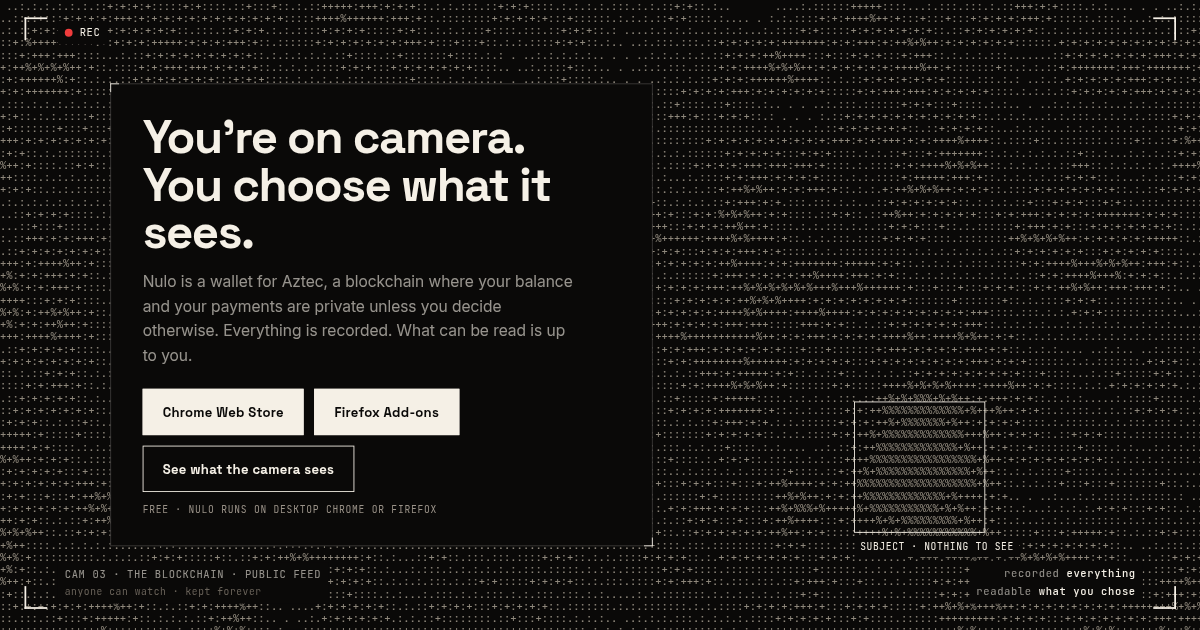
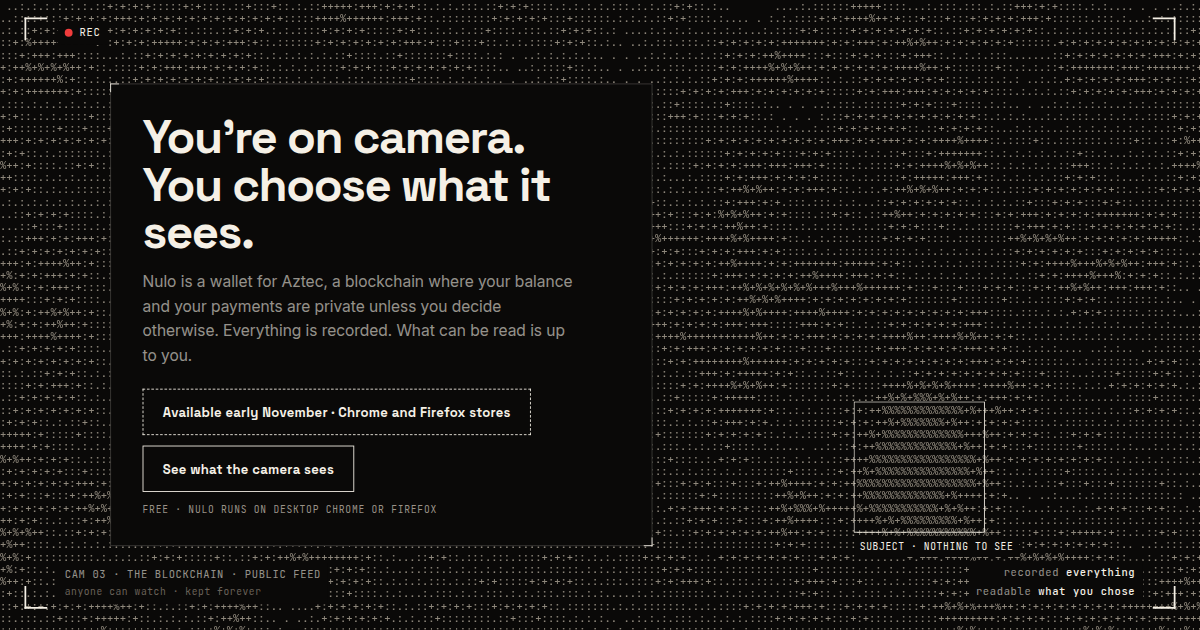
chore(landing): announce the store launch in place of the install buttons (#1160)
The same commit as #1159, which goes into `main` so nulo.sh deploys it
today. This PR keeps `dev` in line, so the next promote neither reverts
it nor conflicts with it. Restoring the buttons at launch is a revert on
both branches.

Owner sign-off and UI impact: see #1159.

🤖 Generated with [Claude Code](https://claude.com/claude-code)

diff --git a/apps/landing/index.html b/apps/landing/index.html
@@ -49,7 +49,7 @@
 				<a class="brand" href="/" aria-label="NULO home"><i aria-hidden="true"></i>NULO</a>
 				<nav aria-label="Main navigation">
 					<a href="#see">How it works</a>
-					<a class="btn" data-install="nav" href="#get">Get Nulo</a>
+					<a class="btn" href="#get">Coming soon</a>
 				</nav>
 			</div>
 		</header>
@@ -75,10 +75,9 @@
 						decide otherwise. Everything is recorded. What can be read is up to you.
 					</p>
 					<div class="cta">
-						<a class="btn" data-install="primary" href="https://chromewebstore.google.com/detail/jlmiaokmjoicmclelpiiocdhncddkdmc">Chrome Web Store</a>
-						<a class="btn" data-install="secondary" href="https://addons.mozilla.org/firefox/addon/3077967/">Firefox Add-ons</a>
+						<span class="soon">Available early November · Chrome and Firefox stores</span>
 						<a class="btn ghost" href="#see">See what the camera sees</a>
-						<small>free<span data-install-detected hidden> · about 30 seconds · also on <a data-install-other href="https://addons.mozilla.org/firefox/addon/3077967/">Firefox</a></span><span data-install-fallback> · Nulo runs on desktop Chrome or Firefox</span></small>
+						<small>free · Nulo runs on desktop Chrome or Firefox</small>
 					</div>
 				</div>
 			</section>
@@ -205,10 +204,9 @@
 					<p class="eb">nothing to see · everything to own</p>
 					<h2 id="final-title">Nothing to see.<br />Everything to own.</h2>
 					<div class="cta">
-						<a class="btn" data-install="primary" href="https://chromewebstore.google.com/detail/jlmiaokmjoicmclelpiiocdhncddkdmc">Chrome Web Store</a>
-						<a class="btn" data-install="secondary" href="https://addons.mozilla.org/firefox/addon/3077967/">Firefox Add-ons</a>
+						<span class="soon">Available early November · Chrome and Firefox stores</span>
 						<a class="btn ghost" href="https://github.com/nulo-sh/nulo">Source on GitHub</a>
-						<small>free<span data-install-detected hidden> · about 30 seconds · also on <a data-install-other href="https://addons.mozilla.org/firefox/addon/3077967/">Firefox</a></span><span data-install-fallback> · Nulo runs on desktop Chrome or Firefox</span></small>
+						<small>Building on Aztec V6? Write to <a href="mailto:hello@nulo.sh">hello@nulo.sh</a></small>
 					</div>
 				</div>
 			</section>
@@ -219,8 +217,6 @@
 				<span>nulo.sh</span>
 				<span>
 					<a href="https://github.com/nulo-sh/nulo">github</a> ·
-					<a href="https://chromewebstore.google.com/detail/jlmiaokmjoicmclelpiiocdhncddkdmc">chrome</a> ·
-					<a href="https://addons.mozilla.org/firefox/addon/3077967/">firefox</a> ·
 					<a href="https://github.com/nulo-sh/nulo/releases">releases</a> ·
 					<a href="/privacy">privacy</a> ·
 					<a href="/terms">terms</a>

diff --git a/apps/landing/src/install.test.ts b/apps/landing/src/install.test.ts
@@ -1,6 +1,6 @@
 import { readFileSync } from "node:fs"
 import { describe, expect, it } from "vitest"
-import { detectInstall, type Install, type NavigatorLike, STORES } from "./install"
+import { detectInstall, type Install, type NavigatorLike } from "./install"
 
 const WIN = "Mozilla/5.0 (Windows NT 10.0; Win64; x64) AppleWebKit/537.36 (KHTML, like Gecko)"
 const CHROME = `${WIN} Chrome/129.0.0.0 Safari/537.36`
@@ -111,9 +111,10 @@ describe("detectInstall", () => {
 })
 
 describe.each(["index.html", "how-aztec-works.html"])("%s", (page) => {
-	it("links the stores only through the URLs the script uses", () => {
+	// Until the store listings open, a page links no store and serves no button for
+	// `mountInstall` to turn into one.
+	it("links no store and serves no install button before the listings open", () => {
 		const html = readFileSync(new URL(`../${page}`, import.meta.url), "utf8")
-		const storeLinks = html.match(/https:\/\/(?:chromewebstore\.google\.com|addons\.mozilla\.org)[^"]*/g) ?? []
-		expect(new Set(storeLinks)).toEqual(new Set([STORES.chrome.url, STORES.firefox.url]))
+		expect(html).not.toMatch(/chromewebstore\.google\.com|addons\.mozilla\.org|data-install/)
 	})
 })

diff --git a/apps/landing/how-aztec-works.html b/apps/landing/how-aztec-works.html
@@ -47,7 +47,7 @@
 				<nav aria-label="Main navigation">
 					<a href="/#see">How it works</a>
 					<a href="/how-aztec-works" aria-current="page">How Aztec works</a>
-					<a class="btn" data-install="nav" href="/#get">Get Nulo</a>
+					<a class="btn" href="/#get">Coming soon</a>
 				</nav>
 			</div>
 		</header>
@@ -252,8 +252,6 @@
 				<span>nulo.sh</span>
 				<span>
 					<a href="https://github.com/nulo-sh/nulo">github</a> ·
-					<a href="https://chromewebstore.google.com/detail/jlmiaokmjoicmclelpiiocdhncddkdmc">chrome</a> ·
-					<a href="https://addons.mozilla.org/firefox/addon/3077967/">firefox</a> ·
 					<a href="https://github.com/nulo-sh/nulo/releases">releases</a> ·
 					<a href="/privacy">privacy</a> ·
 					<a href="/terms">terms</a>

diff --git a/apps/landing/src/install.ts b/apps/landing/src/install.ts
@@ -1,4 +1,4 @@
-/** The store listings, named by item id so a listing rename never breaks a link. `index.html` and `how-aztec-works.html` carry the same URLs for visitors without JavaScript. */
+/** The store listings, named by item id so a listing rename never breaks a link. Until the store listings open, `index.html` and `how-aztec-works.html` link neither and serve no install button. */
 export const STORES = {
 	chrome: { url: "https://chromewebstore.google.com/detail/jlmiaokmjoicmclelpiiocdhncddkdmc", name: "Chrome" },
 	firefox: { url: "https://addons.mozilla.org/firefox/addon/3077967/", name: "Firefox" },

diff --git a/apps/landing/src/styles/page.css b/apps/landing/src/styles/page.css
@@ -149,6 +149,19 @@ footer {
 	background: rgba(245, 240, 230, 0.08);
 }
 
+/* A date, not a control: unfilled and dashed so it never reads as a button. */
+.soon {
+	display: inline-flex;
+	align-items: center;
+	color: var(--txt-primary);
+	font-family: var(--font-headline);
+	font-weight: 700;
+	font-size: 15px;
+	letter-spacing: 0.02em;
+	padding: 14px 22px;
+	border: 1px dashed var(--txt-primary);
+}
+
 .eb {
 	font-family: var(--font-mono);
 	font-size: 11px;

diff --git a/apps/landing/README.md b/apps/landing/README.md
@@ -10,7 +10,7 @@ Marketing landing page for the wallet (nulo.sh). Standalone Vite app; ships inde
 | `how-aztec-works.html` | The How Aztec works page (`/how-aztec-works`): the two sentences, then three cards (Private balances, Proofs, Fees), each a narrated clip over its short text and the clip's transcript. Same bar, grain, plates and footer as the home page and the same `src/main.ts`, plus `src/clips/index.ts`. Its text and narration follow what Aztec actually hides: never that a payment's recipient, a transaction's shape or a public part is hidden. |
 | `src/main.ts` | Vite entry: imports the stylesheets in order, narrows the install buttons, and mounts the page. |
 | `src/install.ts` | The two store URLs and `detectInstall`, which maps a desktop browser to its store and name, or `null` for a browser that cannot install (Safari, any phone). Pure; unit-tested in `install.test.ts`, which also pins the store URLs both hand-written pages serve. |
-| `src/install-dom.ts` | Narrows the served fallback (both stores and a desktop-only note) to one "Add to <browser>" button and an "also on" link. Writes `href` and `textContent` only. |
+| `src/install-dom.ts` | Narrows the served fallback (both stores and a desktop-only note) to one "Add to <browser>" button and an "also on" link. Writes `href` and `textContent` only. Until the store listings open the pages serve no button and it changes nothing; bringing the buttons back is a revert of the change that took them out. |
 | `src/feed.ts` | Pure renderer for the character "camera feed": seeded value noise, an optional bright subject, Bayer 4×4 dithering into a five-glyph ramp. DOM-free; unit-tested in `feed.test.ts`. |
 | `src/feed-dom.ts` | Wiring: measures the mono cell after fonts load, sizes each `pre[data-feed]` to its host, runs one ~30 fps loop (skips off-screen and hidden-tab, scales the grid up past its cell cap so any screen is covered, honours reduced motion), and drives the clock, tracking box and record stream. |
 | `src/clips/` | The page's three clips. `player.ts` wires each `[data-clip]` card (play from a press only, `preload="none"`, seek, a captions line, one clip speaking at a time, paused in a hidden tab); `timeline.ts` is the pure clock (scene at a time, cues, captions, WebVTT); `draw.ts` and `kit.ts` draw plates, mono labels and the wallet's glyphs on a 640×360 SVG stage; `private-balances.ts`, `proofs.ts` and `fees.ts` are the scenes, each a pure function of time cued to spoken words, and each clip ends on `kit.ts`'s `recap`: the stage clears and a plate of the clip's points appears, one row per spoken phrase. `media/` holds each narration (`.mp3`), its word timings (`.timings.json`) and its captions track (`.vtt`, generated from the timings and pinned by `clips.test.ts`, which also pins the cues, the transcripts and the media budget). |
@@ -41,7 +41,7 @@ Marketing landing page for the wallet (nulo.sh). Standalone Vite app; ships inde
 - **Two design rules.** Copy, buttons and panels sit on solid plates; section headings sit on the grain with a dark halo. The grain runs behind every section uninterrupted.
 - **Copy rule (home page).** No wallet jargon above the fold; the technical words (nullifier, commitment, log) appear only inside the public-record panel, which is labelled illustrative because its values are generated locally.
 - **CSP.** `public/_headers` is the policy; preview applies it too. No inline scripts, no CDN, no remote fonts.
-- **Independent ship.** Builds and deploys from `main` without the extension: the `nulo-landing` Worker serves `nulo.sh` and builds from Git pushes only (Workers Builds, no hook). The install buttons link the store listings, never a release, so a release needs nothing from the landing, and the build reaches no network. CI lints, typechecks and unit-tests this package on every PR, and builds it when the PR touches it or `legal/`.
+- **Independent ship.** Builds and deploys from `main` without the extension: the `nulo-landing` Worker serves `nulo.sh` and builds from Git pushes only (Workers Builds, no hook). The install buttons (absent until the store listings open) link the store listings, never a release, so a release needs nothing from the landing, and the build reaches no network. CI lints, typechecks and unit-tests this package on every PR, and builds it when the PR touches it or `legal/`.
 
 ## Legal pages
 
